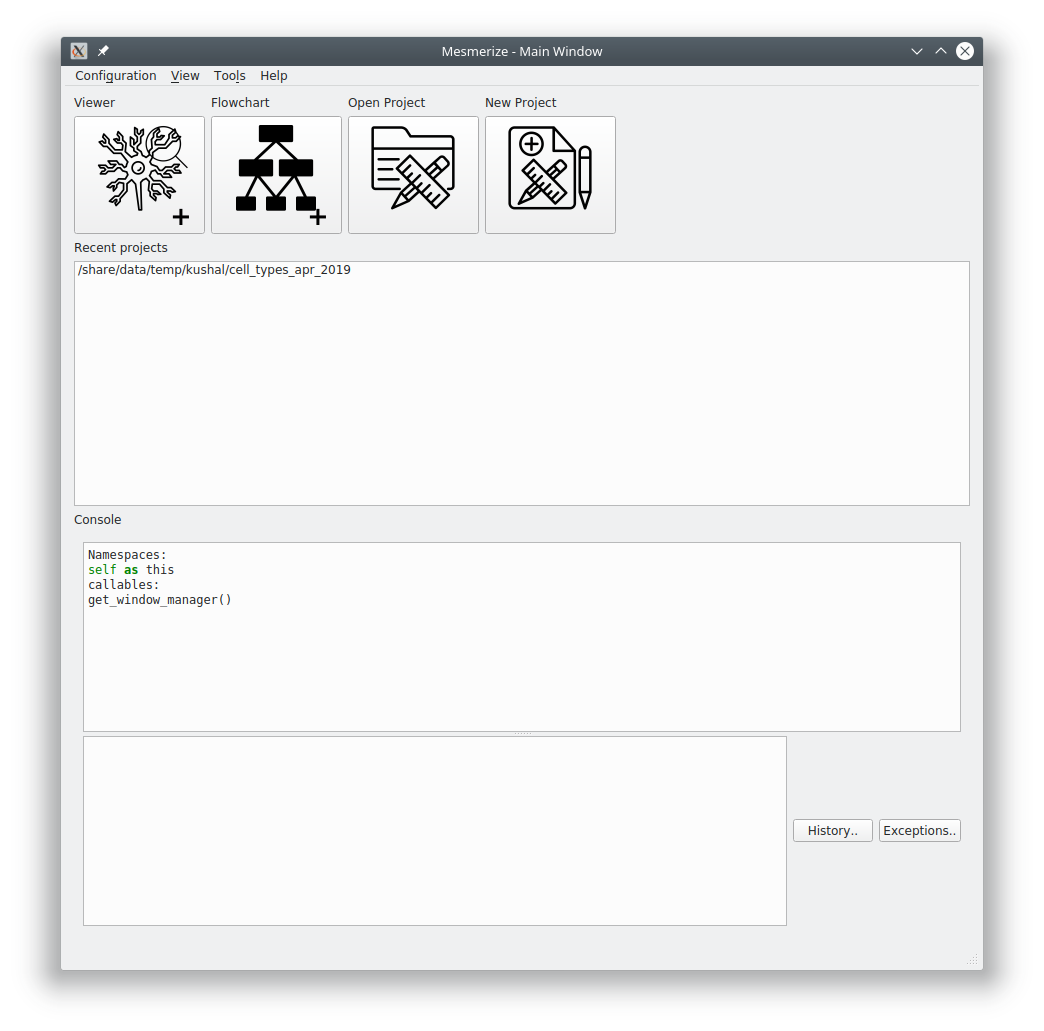
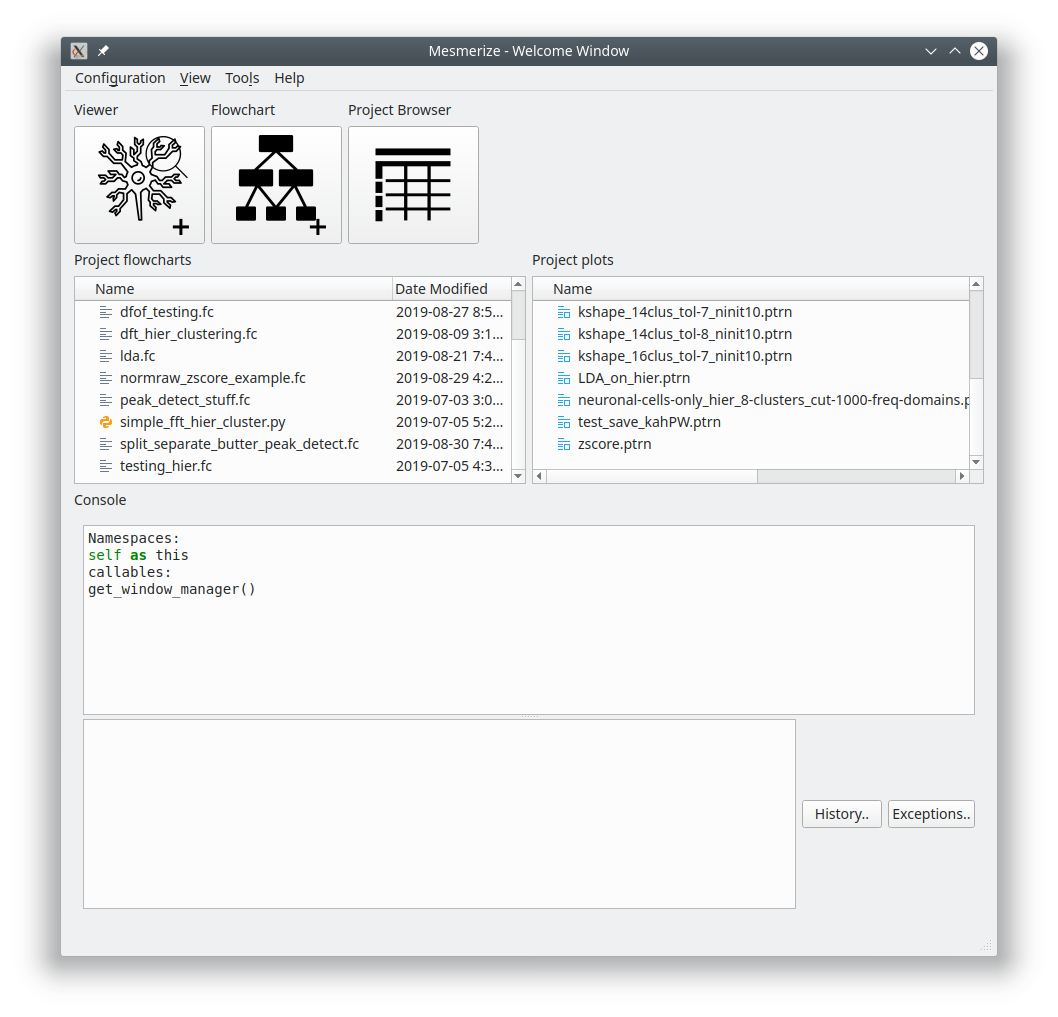
docs

diff --git a/source/Overview.rst b/source/Overview.rst
@@ -1,27 +1,27 @@
 Overview
 ********
 
+Mesmerize is a platform for the annotation and analysis of neuronal calcium imaging data. Mesmerize attempts to encompasses the entire process of calcium imaging analysis from raw data to semi-final publication figures that are interactive, and keep track of the analysis so that it can be recapitulated. It is applicable for a broad range of experiments and is intended to be used by users with and without a programming background.
+
+Welcome Window
+^^^^^^^^^^^^^^
+
+Share your analysis pipelines and figures along with your publication
+
 .. image:: ./imgs/Overview/welcome_window.png
 
 The Viewer
 ^^^^^^^^^^
 
+Explore image sequences, and use various modules for pre-processing and signal-extraction. Annotate regions of interest with any relevant information. Map stimuli/behavior periods.
+
 .. image:: ./imgs/Overview/viewer.png
 
-Opening Image sequences
-^^^^^^^^^^^^^^^^^^^^^^^
-
-Mesmerize is able to work with 2D imaging sequences stored as tiff files and also with mes files from Femtonics microscopes. If you have image sequences stored in another format they can also be used if a Python library exists for opening them.
-
-Stimulus mapping
-^^^^^^^^^^^^^^^^
-
-Stimulus information from mes files or CSV's can be mapped onto your imaging data.
 
 CaImAn modules
 ^^^^^^^^^^^^^^
 
-Mesmerize contains front-end GUI modules for the extremely useful and versatile CaImAn library. This makes it very easy for users without a programming background to use the library.
+Mesmerize contains front-end GUI modules for the CaImAn library. This makes it very easy for users without a programming background to use the library.
 
 **CaImAn Elastic Motion Correction**
 
@@ -31,80 +31,39 @@ Mesmerize contains front-end GUI modules for the extremely useful and versatile 
 
 .. image:: ./imgs/Overview/cnmfe.png
 
-The computationally intense procedures performed using the CaImAn library (Elastic Motion Correction and CNMF) can be organized using the Mesmerize Batch Manager.
-
 Batch Manager
 ^^^^^^^^^^^^^
+
+Computationally intense procedures performed can be organized with the Mesmerize Batch Manager.
 
 .. image:: ./imgs/Overview/batch_manager.png
 
 Project Organization
 ^^^^^^^^^^^^^^^^^^^^
 
+Explore project data and create experimental groups.
+
 .. image:: ./imgs/Overview/project_browser.png
 
 Data analysis - pyqtgraph programmable flowcharts.
 ^^^^^^^^^^^^^^^^^^^^^^^^^^^^^^^^^^^^^^^^^^^^^^^^^^
 
+Build your own analysis piplines using flowcharts.
+
 .. image:: ./imgs/Overview/flowchart.png
 
-**Types of Nodes**
-
-
-* **Data Nodes**
-
-  * Load_Proj_DF
-  * Save
-  * Load
-
-* **Plotting**
-
-  * Simple time series
-  * Heatmap
-
-* **Categorical Filters**
-
-  * Align Stims
-  * ROI Selection
-  * Genotype selection
-  * Peak Detection
-  * Custom columns
-
-* **Filters and Signal Processing**
-
-  * Butterworth filter
-  * Savitzsky-Golay filter
-  * Derivative
-  * Resample
-  * Normalize
-  * Z-Score
-
-    * **Math**
-
-  * LogTransform
-  * Discreate fourier transform
-  * Inverse discrete fourier transform
-  * Absolute value
-
-* **Clustering** - based on sklearn
-
-  * KMeans
-  * Agglomerative
-  * LDA
-
-* **Transform** - based on sklearn
-
-  * Manifold Learning
-
-    * Isomap
-    * Locally Linear Embedding
-    * Spectral Embedding
-    * MDS
-
-      * **Decomposition** - based on sklearn
-      * PCA
 
 Interactive Plots
 ^^^^^^^^^^^^^^^^^
 
+Create shareable interactive plots where the analysis history of every datapoint is traceable. Explore information associated with a datapoint, such as the spatial localization of its parent ROI and raw data.
+
+**Interactive Heatmaps**
+
 .. image:: ./imgs/Overview/interactive.gif
+
+**Interactive Cross-correlation analysis**
+
+.. thumbnail:: ./user_guides/plots/cross_cor.gif
+
+Other types of plots: Beeswarm, Violins, KShape, Proportions, Scatter
